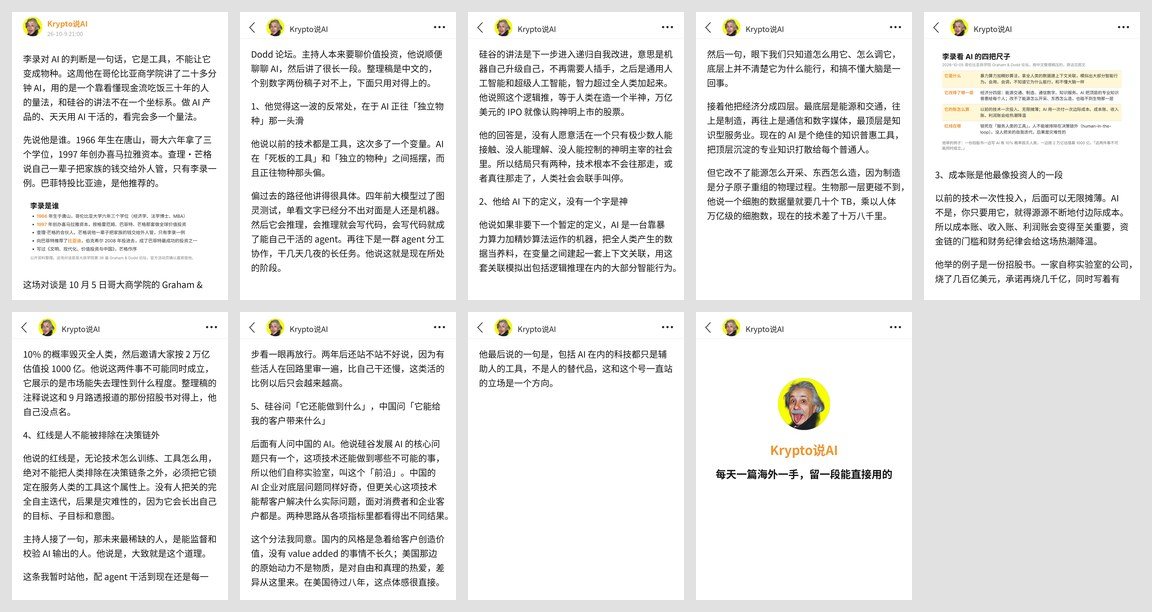
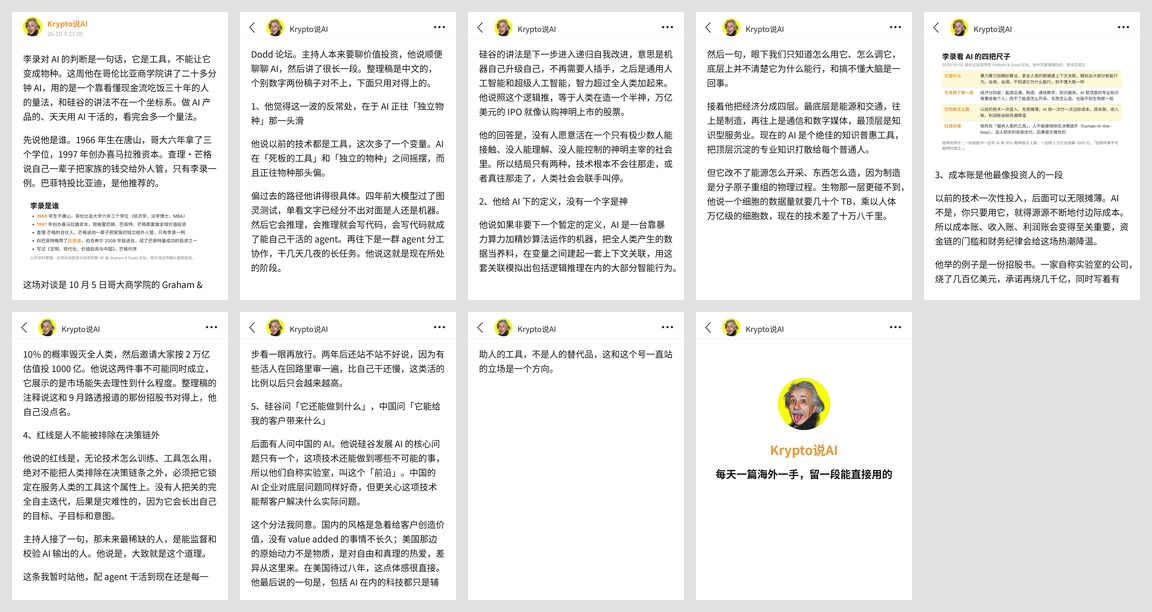
李录稿：末页并进第 7 页
Claude-Session: https://claude.ai/code/session_015PCFAaTRLY2GD1Se7DV5ug

Changed region(s): [[0.2188, 0.8072, 0.4062, 0.9624], [0.4062, 0.5588, 0.5938, 0.652]]

diff --git a/发布/2026-10-08_lilu-ai-tool-not-species/meme版/编辑用/draft.md b/发布/2026-10-08_lilu-ai-tool-not-species/meme版/编辑用/draft.md
@@ -54,6 +54,6 @@ account: Krypto说AI
 
 5、硅谷问「它还能做到什么」，中国问「它能给我的客户带来什么」
 
-后面有人问中国的 AI。他说硅谷发展 AI 的核心问题只有一个，这项技术还能做到哪些不可能的事，所以他们自称实验室，叫这个「前沿」。中国的 AI 企业对底层问题同样好奇，但更关心这项技术能帮客户解决什么实际问题，面对消费者和企业客户都是。两种思路从各项指标里都看得出不同结果。
+后面有人问中国的 AI。他说硅谷发展 AI 的核心问题只有一个，这项技术还能做到哪些不可能的事，所以他们自称实验室，叫这个「前沿」。中国的 AI 企业对底层问题同样好奇，但更关心这项技术能帮客户解决什么实际问题。
 
 这个分法我同意。国内的风格是急着给客户创造价值，没有 value added 的事情不长久；美国那边的原始动力不是物质，是对自由和真理的热爱，差异从这里来。在美国待过八年，这点体感很直接。他最后说的一句是，包括 AI 在内的科技都只是辅助人的工具，不是人的替代品，这和这个号一直站的立场是一个方向。
